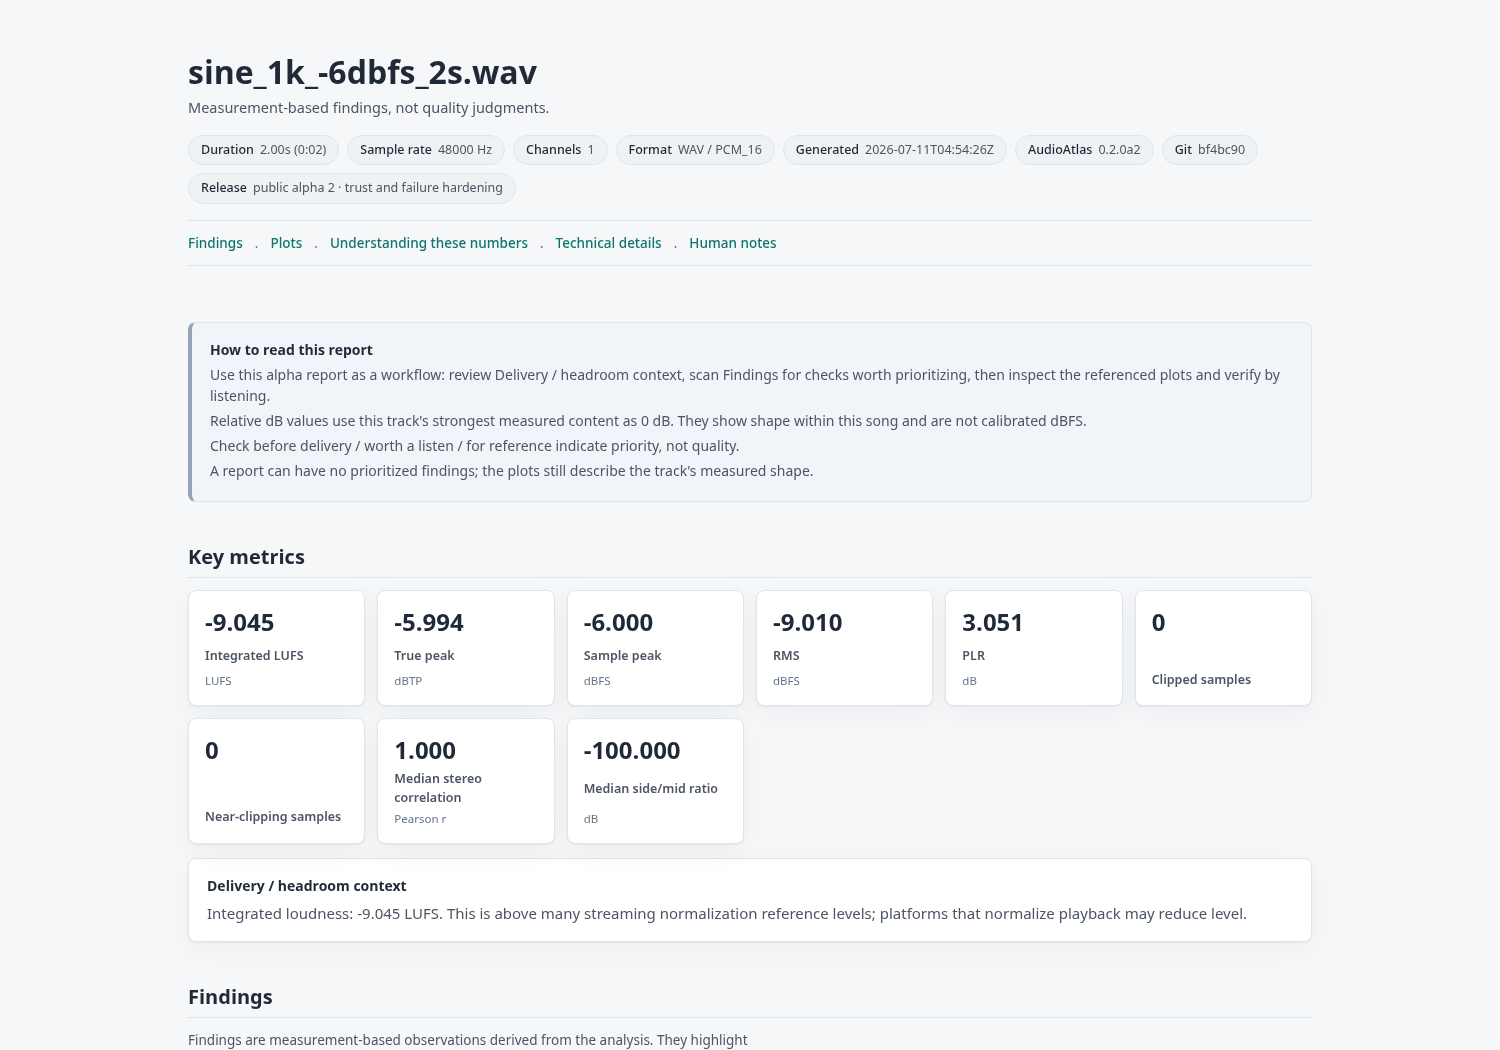
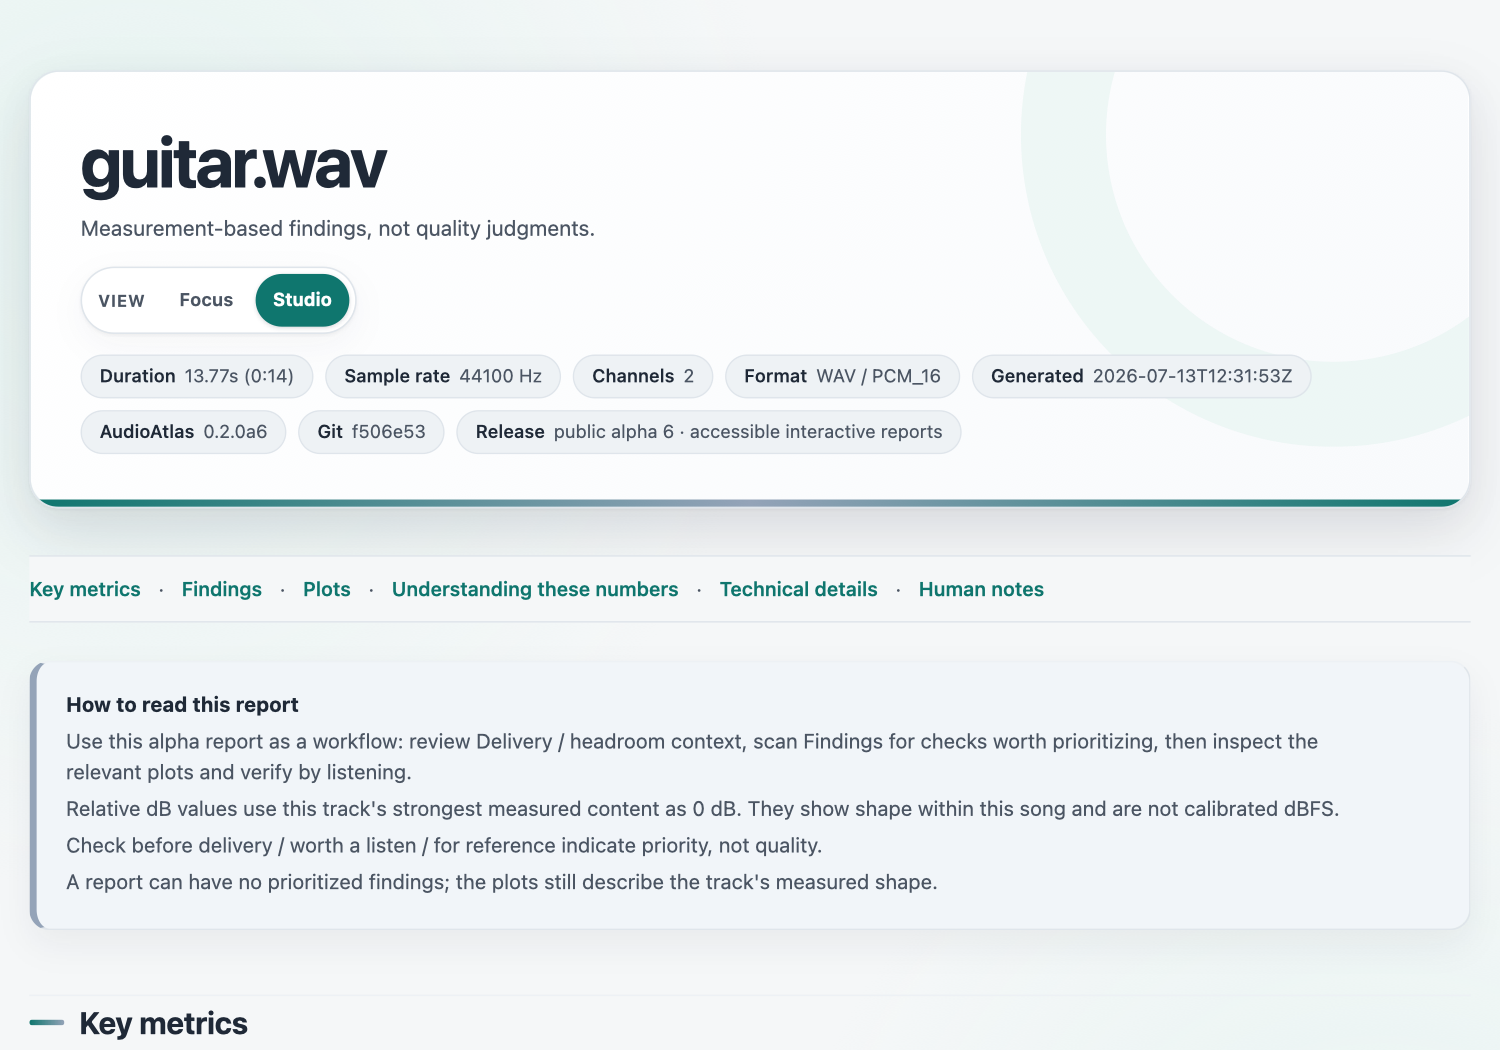
Refresh README with current report visuals

diff --git a/tests/test_pipeline.py b/tests/test_pipeline.py
@@ -112,12 +112,17 @@ def test_pipeline_writes_expected_outputs(tmp_path: Path, sr: int):
     assert "Findings" in html
     assert "Key metrics" in html
     assert "waveform_rms.png" in html
+    assert '<body data-presentation="studio">' in html
     image_srcs = re.findall(r'<img src="([^"]+)"', html)
     assert sorted(image_srcs) == sorted(expected_plots)
     for src in image_srcs:
         assert "://" not in src
         assert not src.startswith(("/", "\\"))
         assert (result.out_dir / src).exists()
+
+    image = matplotlib_image.imread(result.out_dir / "rms_timeline.png")
+    expected_rgb = np.asarray(to_rgb(get_theme("default").tokens["surface"]))
+    assert np.allclose(image[0, 0, :3], expected_rgb, atol=1 / 255)
 
 
 def test_pipeline_track_id_is_hashed_and_never_serializes_the_raw_token(

diff --git a/docs/assets/readme/README.md b/docs/assets/readme/README.md
@@ -1,0 +1,36 @@
+# README visual assets
+
+These screenshots come from real AudioAtlas reports generated with the
+rights-cleared recordings in `examples/demo_audio`. They are not mockups and do
+not use synthetic test fixtures.
+
+## Default Studio overview
+
+Generate `report_overview.png` from the normal no-theme report:
+
+```bash
+uv run audioatlas analyze examples/demo_audio/guitar.wav \
+  --out /tmp/audioatlas-readme-default-source \
+  --graphs-profile standard
+```
+
+Capture the top of `report.html` at 1500 x 1050 pixels. Do not pass `--theme` or
+`--presentation`: the image documents the regular light-theme, Studio-opening
+experience.
+
+## Midnight plot cards
+
+Generate `midnight_report_plots.png` from the full Midnight Studio report:
+
+```bash
+uv run audioatlas analyze examples/demo_audio/guitar_koto_cello_drums.wav \
+  --out /tmp/audioatlas-readme-midnight-source \
+  --graphs-profile full \
+  --theme midnight_studio
+```
+
+Capture the report's actual `#plots` cards at 1500 x 1050 pixels. Keep the
+generated PNG plot canvases visible so the image demonstrates shell and plot
+theme unity.
+
+Regenerate both images whenever the report shell or plot theming changes.

diff --git a/README.md b/README.md
@@ -10,7 +10,10 @@ It runs on your computer. There is no account, upload, server, telemetry, or
 quality score. The result is a folder you can open in any browser and keep with
 the track.
 
-![AudioAtlas report overview](docs/assets/readme/report_overview.png)
+![Current default AudioAtlas Studio report generated from the included guitar demo](docs/assets/readme/report_overview.png)
+
+This is the regular no-theme output: AudioAtlas uses the polished light default
+theme and opens the finished report in Studio.
 
 ## Make your first report
 
@@ -85,7 +88,18 @@ Every HTML report opens in **Studio** and includes a **Focus / Studio** switch:
 - **Studio** is the polished default, with richer framing, hierarchy, and atmosphere.
 - **Focus** is restrained and information-first.
 
-Both views wrap the same text and PNG plots.
+Both views wrap the same report content and plot pixels. The presentation switch
+changes framing only.
+
+The polished light theme shown above is the no-flag default. Theme selection
+styles both the report shell and generated PNG canvases at report-generation
+time. Midnight Studio is an optional built-in alternative:
+
+```bash
+audioatlas analyze song.wav --theme midnight_studio
+```
+
+![Midnight Studio report plot cards with theme-matched PNG canvases](docs/assets/readme/midnight_report_plots.png)
 
 Choose the restrained opening view when generating a report:
 
@@ -94,7 +108,7 @@ audioatlas analyze song.wav --presentation focus
 ```
 
 The switch remains available inside the finished report, works offline, and
-never filters or alters the measured plot images.
+never changes the measured plot content or pixels.
 
 A separate “lite” build is intentionally not maintained. Compact reports use
 the same trusted analysis engine, which avoids two editions slowly disagreeing